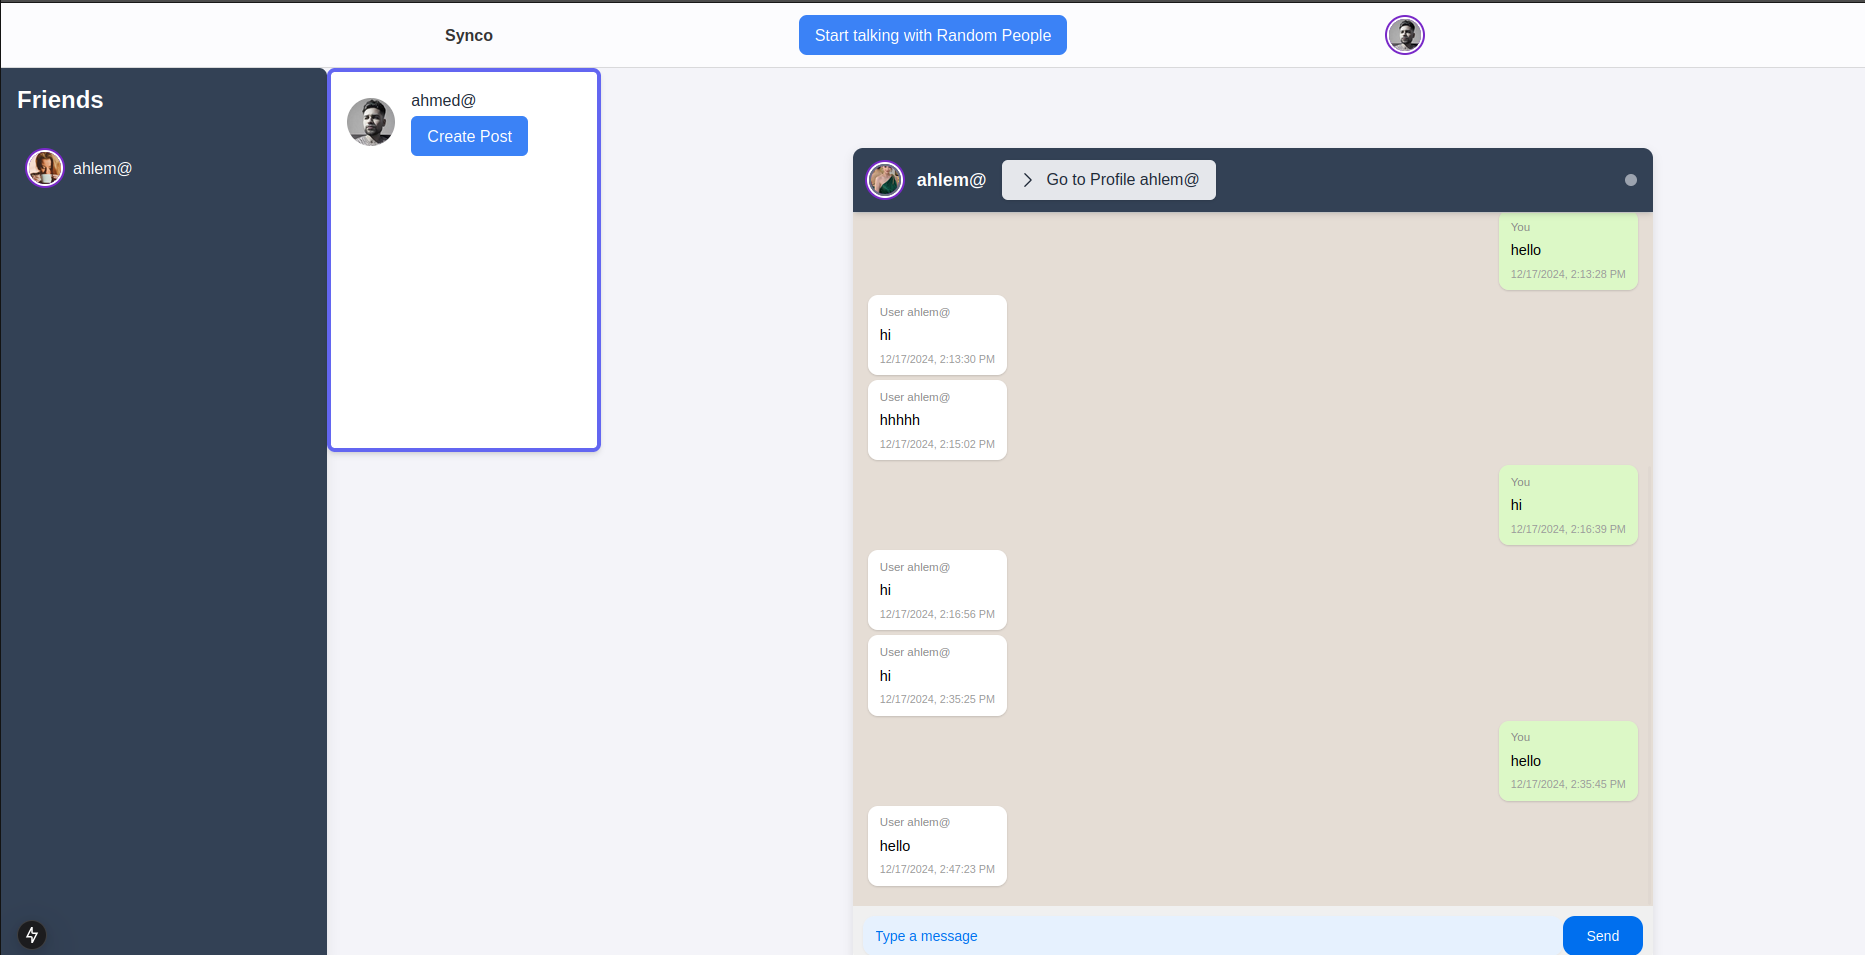
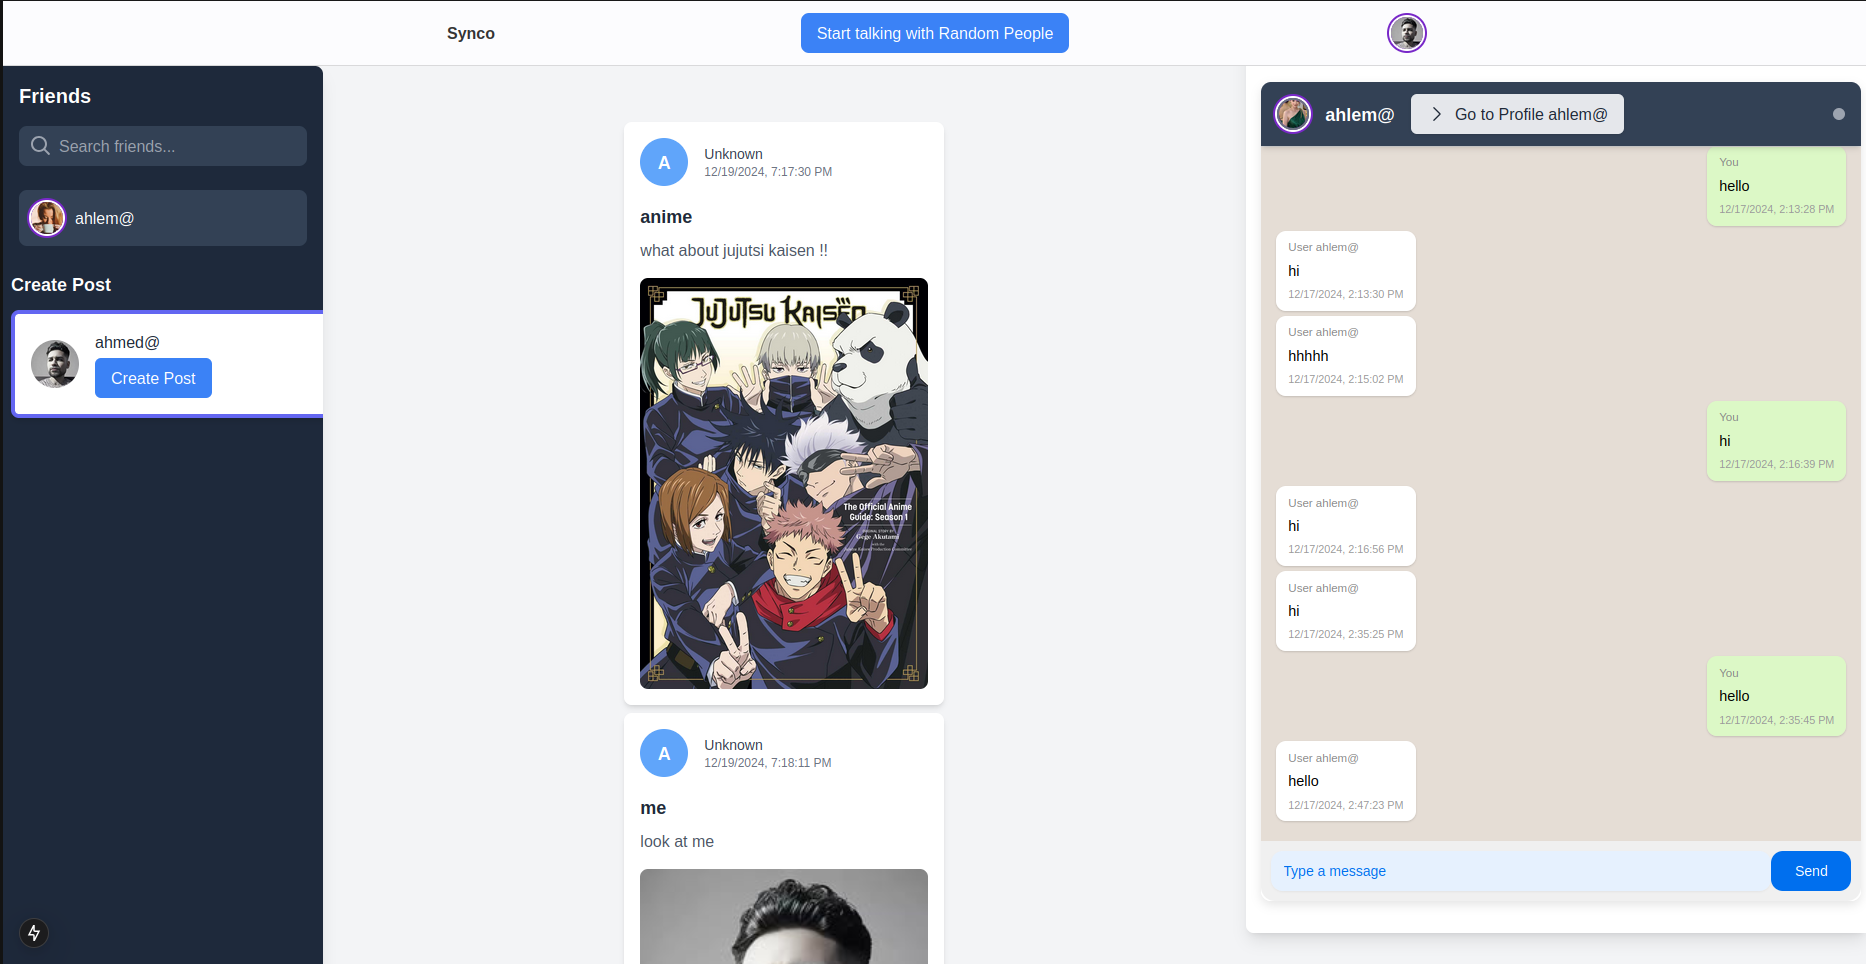
add new features

diff --git a/random_chat_front/src/app/Messenger/page.tsx b/random_chat_front/src/app/Messenger/page.tsx
@@ -133,7 +133,7 @@ function Message() {
   };
 
   return (
-    <div className="flex flex-col h-screen">
+    <div className="flex-1 flex-col h-screen w-full  overflow overflow-y-auto" >
       {/* Header */}
       <Navbar isBordered className="px-6">
   {/* Left Section: Brand Name */}
@@ -200,55 +200,85 @@ function Message() {
 </Navbar>
 
 
-<div className="flex flex-1 h-screen overflow-hidden">
-  {/* Left Sidebar */}
-  <div className="flex flex-col w-1/4 bg-slate-700 p-4 rounded-tr-lg rounded-br-lg shadow-lg">
-    <h1 className="text-2xl font-semibold text-white mb-6">Friends</h1>
-    <ul className="space-y-3">
-      {friend_ids.length > 0 &&
-        friend_ids.map((friendWithRoom) =>
-          friendWithRoom ? (
-            <li key={friendWithRoom.id}>
-              <button
-                className="flex items-center w-full text-left text-white p-3 rounded-lg hover:bg-slate-600 transition duration-150 ease-in-out"
-                onClick={() => {
-                  setIsRandomChat(false);
-                  dispatch(setFriend(friendWithRoom));
-                }}
-              >
-                <Avatar
-                  isBordered
-                  className="transition-transform"
-                  color="secondary"
-                  name={friendWithRoom.name}
-                  size="sm"
-                  src="https://i.pravatar.cc/150?u=a042581f4e29026704d"
-                />
-                <span className="ml-3 font-medium ">{friendWithRoom.name}</span>
-              </button>
-            </li>
-          ) : null
-        )}
-    </ul>
+<div className="flex flex-row h-screen bg-gray-100 overflow-hidden">
+ {/* Left Sidebar */}
+<div className="flex flex-col w-1/4 max-w-xs bg-slate-800 p-4 rounded-tr-lg rounded-br-lg shadow-lg h-screen overflow-y-auto sticky top-0">
+  <h1 className="text-xl font-bold text-white mb-4">Friends</h1>
+  
+  {/* Search Bar */}
+  <div className="relative mb-6">
+    <input
+      type="text"
+      placeholder="Search friends..."
+      className="w-full p-2 pl-10 rounded-lg bg-slate-700 text-white placeholder-gray-400 focus:outline-none focus:ring-2 focus:ring-blue-500"
+      
+    />
+    <svg
+      className="absolute left-3 top-2.5 h-5 w-5 text-gray-400"
+      fill="currentColor"
+      xmlns="http://www.w3.org/2000/svg"
+      viewBox="0 0 20 20"
+    >
+      <path d="M12.9 14.32a8 8 0 111.42-1.42l4.35 4.34a1 1 0 01-1.41 1.41l-4.34-4.35zM8 14a6 6 0 100-12 6 6 0 000 12z" />
+    </svg>
   </div>
-         {/* Center page  */}   
-         {
-          user_main_info && (
-            <Create_post 
-              id={user_id}
-              email={user_main_info.email}
-              img_url={user_main_info.profile_picture_url || ''}
-            />
-          )
-         }
-         <div className='flex relative left-6 top-auto flex-col items-center justify-center w-1/2'>
-                   {<Get_posts/>}
-         </div>
-        
-        {MessageModule(showChat,friend,loading,greetingMessage,socket,isRandomChat)}
 
-       
-      </div>
+  {/* Friends List */}
+  <ul className="space-y-4">
+    {friend_ids.length > 0 &&
+      friend_ids.map((friendWithRoom) =>
+        friendWithRoom ? (
+          <li key={friendWithRoom.id}>
+            <button
+              className="flex items-center w-full text-left p-3 rounded-lg bg-slate-700 hover:bg-slate-600 transition duration-150 ease-in-out"
+              onClick={() => {
+                setIsRandomChat(false);
+                dispatch(setFriend(friendWithRoom));
+              }}
+            >
+              <Avatar
+                isBordered
+                className="transition-transform"
+                color="secondary"
+                name={friendWithRoom.name}
+                size="sm"
+                src="https://i.pravatar.cc/150?u=a042581f4e29026704d"
+              />
+              <span className="ml-3 font-medium text-white">{friendWithRoom.name}</span>
+            </button>
+          </li>
+        ) : null
+      )}
+  </ul>
+
+  {/* Post Section */}
+  {user_main_info && (
+    <div className="mt-6 relative right-2">
+      <h2 className="text-lg font-semibold text-white mb-3">Create Post</h2>
+      <Create_post
+        id={user_id}
+        email={user_main_info.email}
+        img_url={user_main_info.profile_picture_url || ''}
+      />
+    </div>
+  )}
+</div>
+
+
+  {/* Main Content */}
+  <div className="flex-1 flex flex-col p-6 space-y-4 overflow-y-auto">
+    
+    <div className="flex-grow">
+      <Get_posts />
+    </div>
+  </div>
+
+  {/* Chat Module */}
+  <div className="w-1/3 bg-white shadow-lg relative bottom-24 h-full rounded-tl-lg rounded-bl-lg flex flex-col overflow-y-auto">
+    {MessageModule(showChat, friend, loading, greetingMessage, socket, isRandomChat)}
+  </div>
+</div>
+
     </div>
   );
 }

diff --git a/random_chat_front/src/app/Messenger/Components/Post_ui/Get_post.tsx b/random_chat_front/src/app/Messenger/Components/Post_ui/Get_post.tsx
@@ -48,39 +48,79 @@ export default function GetPosts() {
   );
 
   return (
-    <div className="max-w-4xl  mx-auto p-6">
-      {posts.length > 0 ? (
-        <div className="flex-col ">
-          {posts.map((post) => (
+    <div className="bg-gray-100 w-96 min-h-screen py-6">
+      <div className="max-w-4xl mx-auto">
+        {/* Posts Section */}
+        {posts.length > 0 ? (
+          posts.map((post) => (
             <div
               key={post.id}
-              className="bg-white rounded-lg gap-9 shadow-md hover:shadow-lg transition-shadow p-4"
+              className="bg-white rounded-lg shadow-md hover:shadow-lg m-4 transition-shadow p-4"
             >
-              <UserInfo
-                userId={post.userId}
-                email={post.email}
-                profile_image={post.profile_image}
-                isAnonymous={post.isAnonymous}
-                CreatedAt={post.CreatedAt}
-              />
+              {/* Post Header */}
+              <div className="flex justify-between items-center">
+                <UserInfo
+                  userId={post.userId}
+                  email={post.email}
+                  profile_image={post.profile_image}
+                  isAnonymous={post.isAnonymous}
+                  CreatedAt={post.CreatedAt}
+                />
+                <button className="text-gray-500 hover:text-gray-700">
+                  <svg
+                    xmlns="http://www.w3.org/2000/svg"
+                    className="h-6 w-6"
+                    fill="none"
+                    viewBox="0 0 24 24"
+                    stroke="currentColor"
+                  >
+                    <path strokeLinecap="round" strokeLinejoin="round" strokeWidth={2} d="M6 10h12M6 14h8" />
+                  </svg>
+                </button>
+              </div>
+
+              {/* Post Content */}
               <div className="mt-4">
                 <h2 className="text-lg font-bold text-gray-800">{post.title}</h2>
                 <p className="text-gray-600 mt-2">{post.content}</p>
-                <Image
-                  src={post.post_image}
-                  alt="post_image"
-                  width={300}
-                  height={200}
-                  className="rounded-lg mt-4"
-                />
+                {post.post_image && (
+                  <Image
+                    src={post.post_image}
+                    alt="post_image"
+                    width={600}
+                    height={400}
+                    className="rounded-lg mt-4 object-cover"
+                  />
+                )}
+              </div>
+
+              {/* Post Actions */}
+              <div className="flex justify-between items-center mt-4 border-t pt-2">
+                <button className="flex items-center space-x-2 text-gray-500 hover:text-blue-500">
+                  <svg xmlns="http://www.w3.org/2000/svg" className="h-5 w-5" viewBox="0 0 20 20" fill="currentColor">
+                    <path d="M3.172 5.172a4 4 0 010-5.656A4 4 0 018.656 5.172l-.482.482a4 4 0 01-5.656 0zM9.828 12.828a4 4 0 010-5.656A4 4 0 015.172 12.828l.482.482a4 4 0 01-5.656 0z" />
+                  </svg>
+                  <span>Like</span>
+                </button>
+                <button className="flex items-center space-x-2 text-gray-500 hover:text-green-500">
+                  <svg xmlns="http://www.w3.org/2000/svg" className="h-5 w-5" viewBox="0 0 20 20" fill="currentColor">
+                    <path fillRule="evenodd" d="M2 5a2 2 0 012-2h6a2 2 0 012 2v8a2 2 0 01-2 2H4a2 2 0 01-2-2V5zm10 3a1 1 0 00-1-1H4a1 1 0 000 2h5a1 1 0 001-1z" clipRule="evenodd" />
+                  </svg>
+                  <span>Comment</span>
+                </button>
+                <button className="flex items-center space-x-2 text-gray-500 hover:text-red-500">
+                  <svg xmlns="http://www.w3.org/2000/svg" className="h-5 w-5" viewBox="0 0 20 20" fill="currentColor">
+                    <path fillRule="evenodd" d="M10 3.278l3.864 7.9a.5.5 0 01-.44.722H6.576a.5.5 0 01-.44-.722l3.864-7.9z" clipRule="evenodd" />
+                  </svg>
+                  <span>Share</span>
+                </button>
               </div>
             </div>
-          ))}
-        </div>
-      ) : (
-        <h1 className="text-center text-gray-500 text-lg">No posts available</h1>
-      )}
+          ))
+        ) : (
+          <h1 className="text-center text-gray-500 text-lg">No posts available</h1>
+        )}
+      </div>
     </div>
   );
 }
-

diff --git a/random_chat_front/src/app/Messenger/Components/messanger.tsx b/random_chat_front/src/app/Messenger/Components/messanger.tsx
@@ -204,8 +204,9 @@ useEffect(() => {
 
   return (
     <Card style={{
-      width: '1200px',  // Larger for random chat
-      maxWidth:  '800px' ,  // Conditional size
+      width: '600px',  // Larger for random chat
+      position: 'relative',
+      left: '-15px',
       height: '85vh',  // Adjust height
       margin: '0 auto',
       display: 'flex',

diff --git a/random_chat_front/src/app/layout.tsx b/random_chat_front/src/app/layout.tsx
@@ -27,7 +27,7 @@ export default function RootLayout({
 }>) {
   return (
     <StoreProvider>
-      <html>
+      <html className="">
       <body className={`${geistSans.variable} ${geistMono.variable}`}>
 
       <NextUIProvider>
